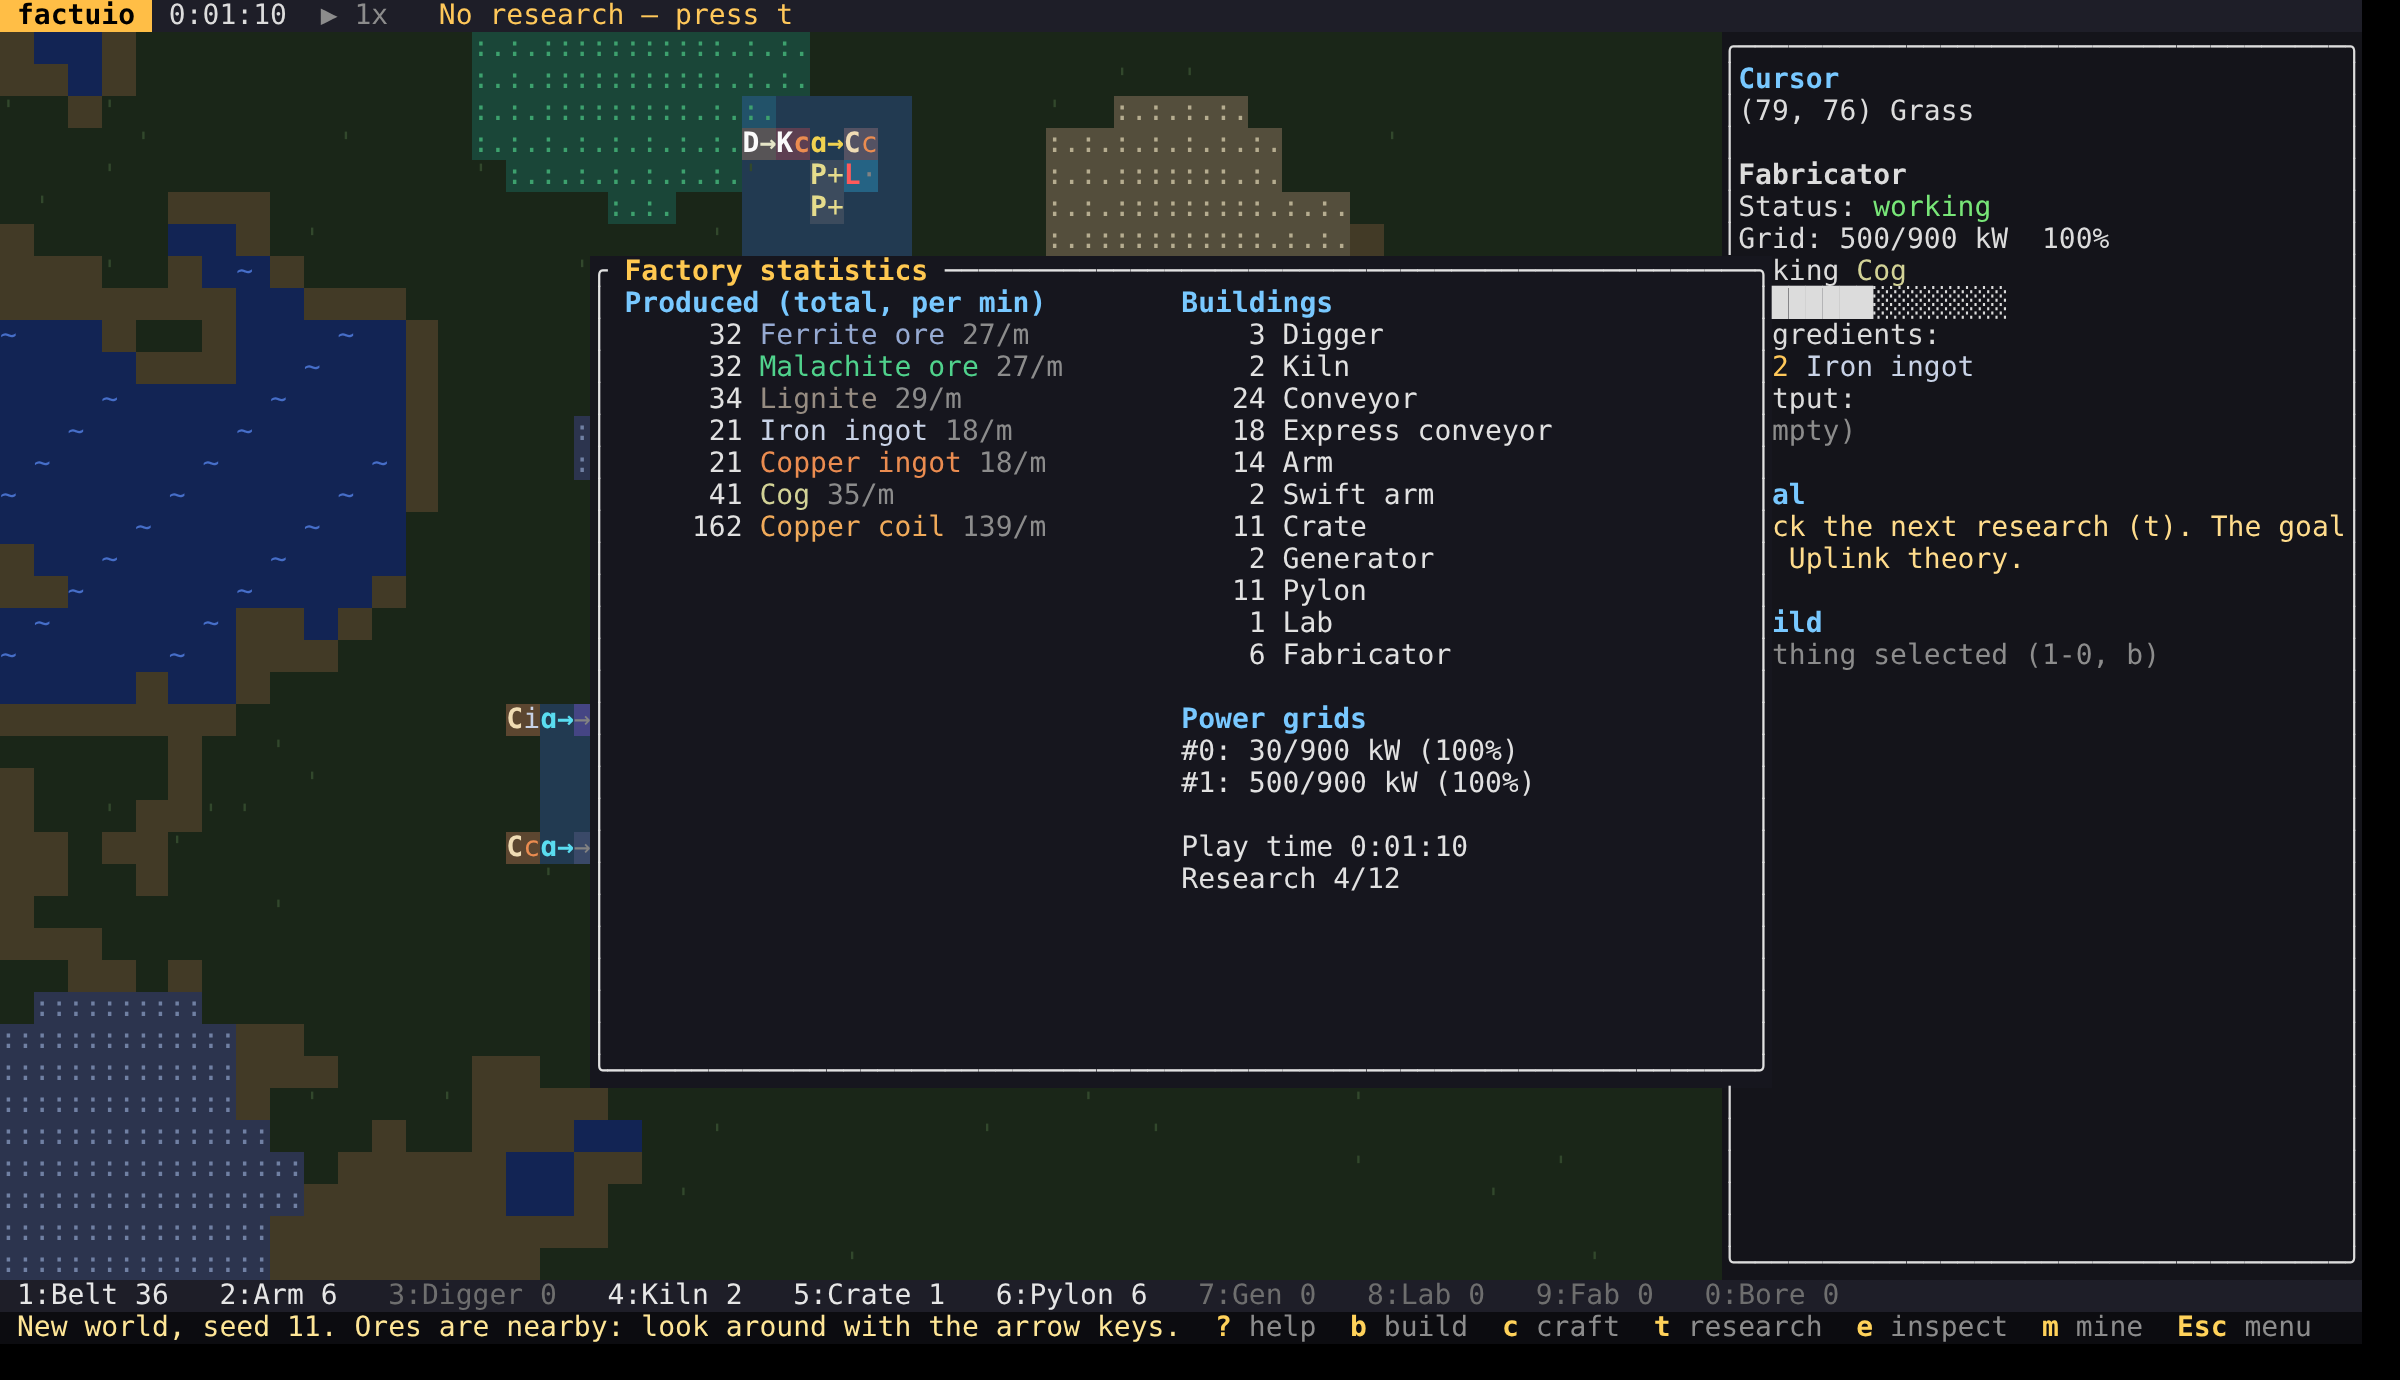
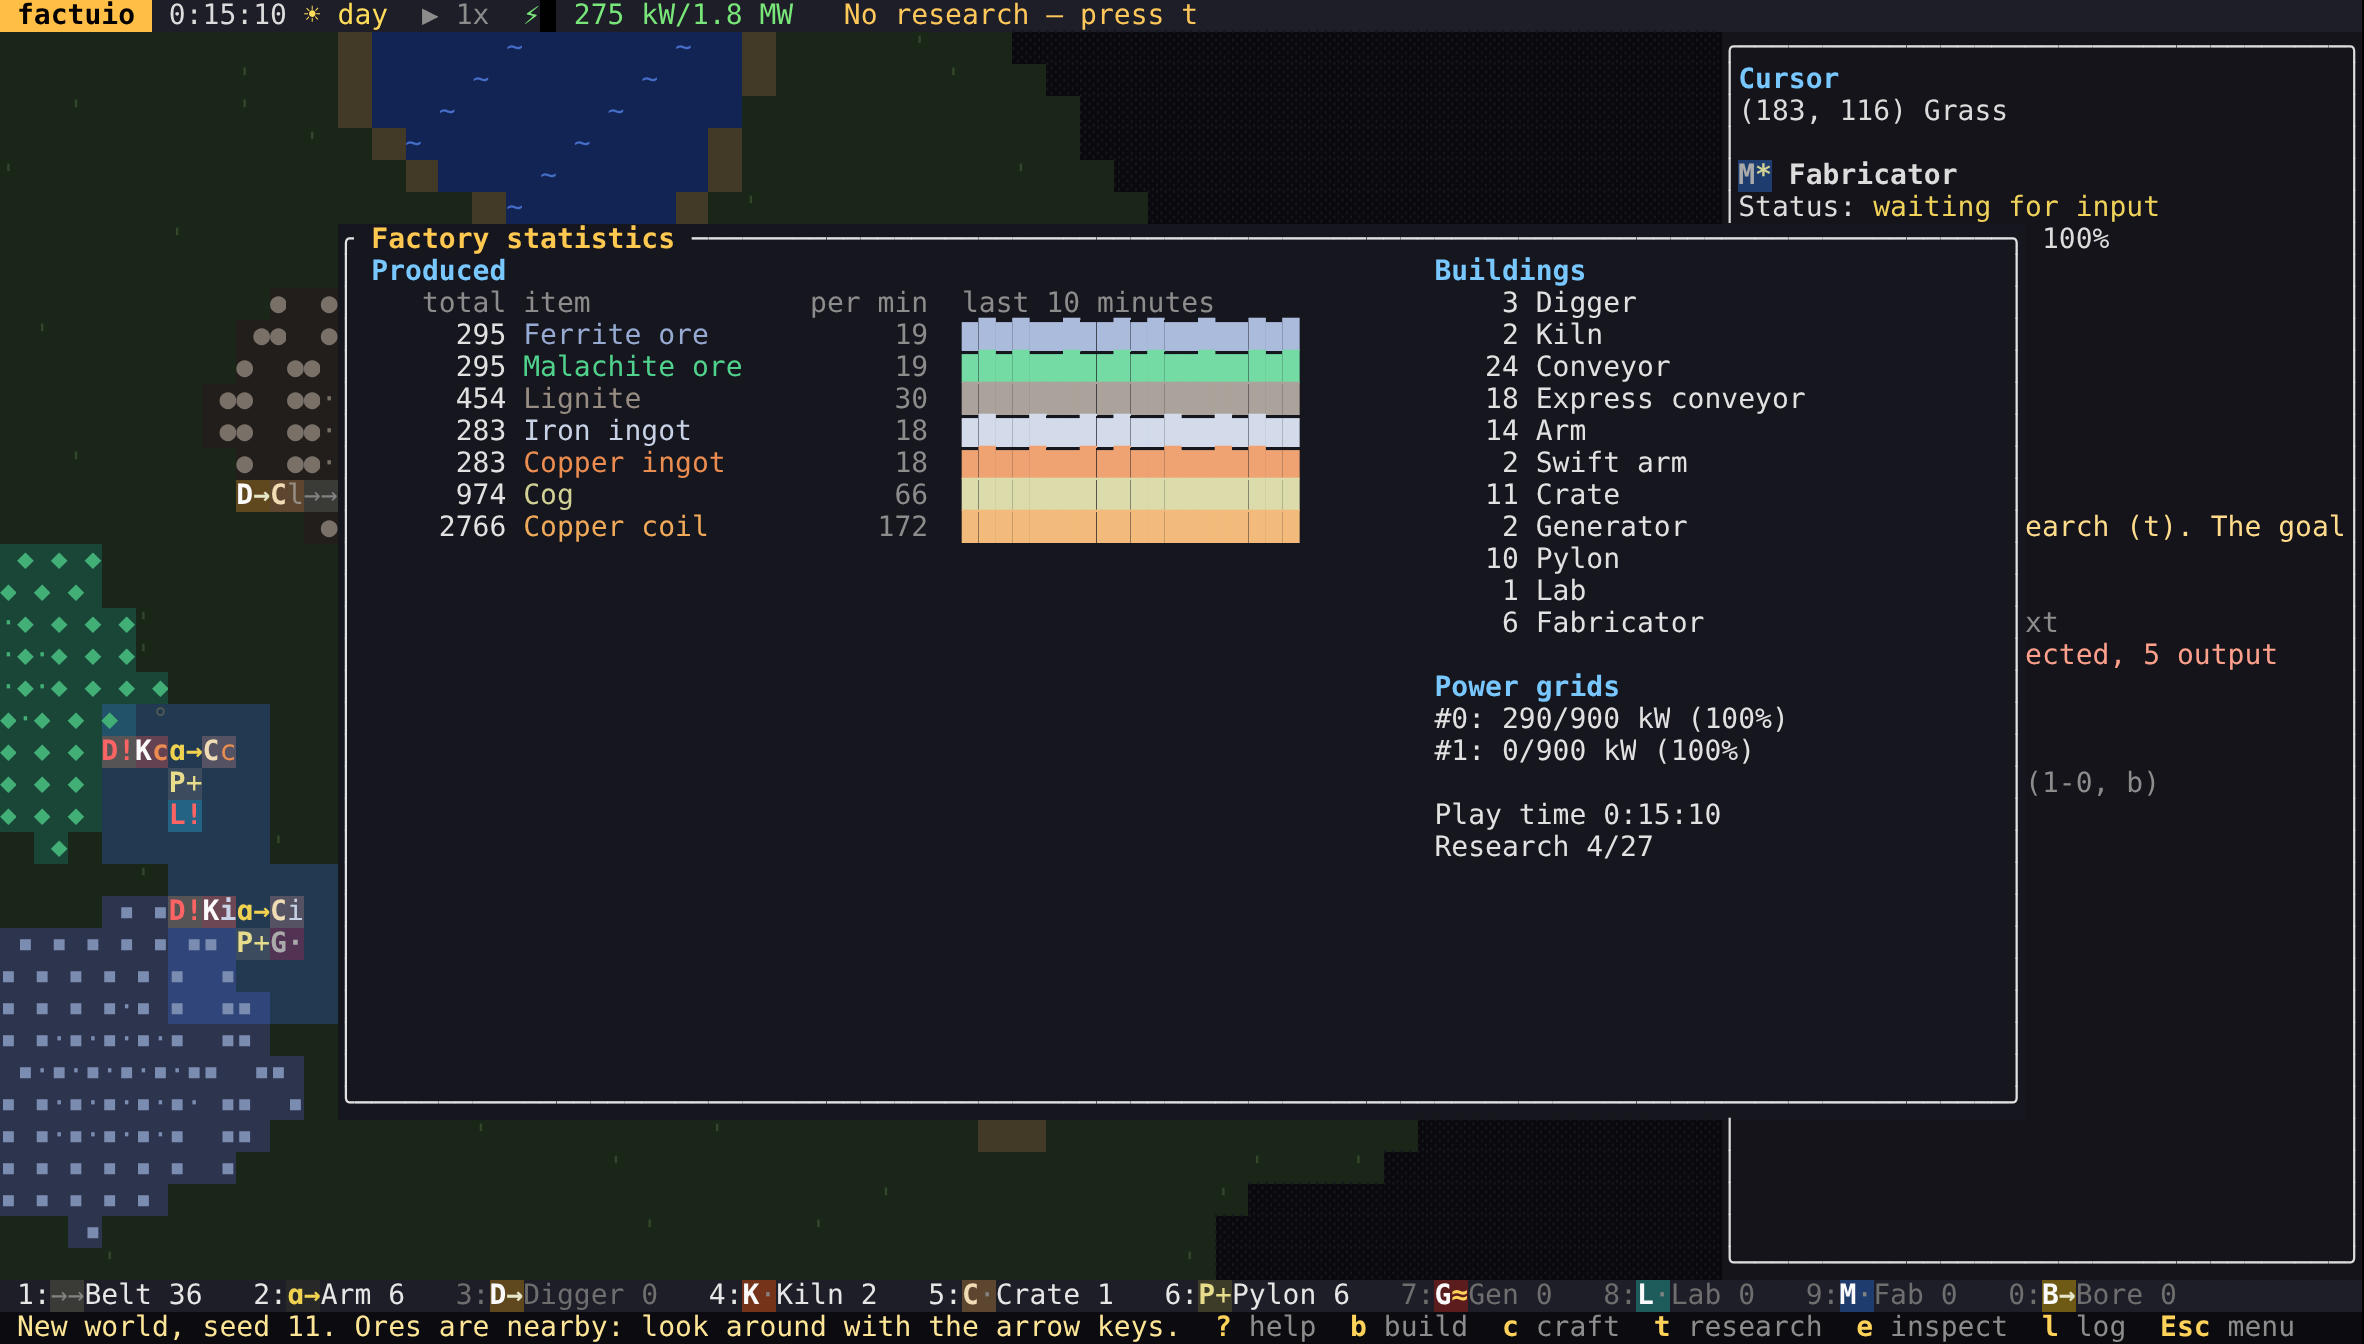
Refresh the README screenshots
Rendered from the current UI: the new ore shapes, building chips,
research tree, power readout and sparklines. The statistics shot now
runs the demo factory to midday on its third day (fuel topped up, crates
emptied and the ingot crates refilled) so every sparkline has ten
minutes of history.

Claude-Session: https://claude.ai/code/session_01WQhVu4WADybVvPsaDY2fyY

diff --git a/src/ui.rs b/src/ui.rs
@@ -3766,6 +3766,44 @@ mod tests {
                     t.draw(|f| draw(f, &b)).unwrap();
                 }
                 Some(m) => {
+                    if name == "stats" {
+                        // Run on to midday of the third day, as a player tending the factory
+                        // would: fuel topped up, crates emptied, the fabricator lines' ingot
+                        // crates refilled. Then every sparkline has ten minutes.
+                        let g = a.game.as_mut().unwrap();
+                        while g.world.tick < 15 * 60 * crate::world::TICKS_PER_SEC as u64 {
+                            let width = g.world.width as usize;
+                            for i in 0..g.world.entities.len() {
+                                let Some(kind) = g.world.entities[i].as_ref().map(|e| e.kind)
+                                else {
+                                    continue;
+                                };
+                                use crate::items::EntityKind as K;
+                                if kind.fuel_draw() > 0.0 || kind == K::Generator {
+                                    g.world.insert(i, Item::Lignite, 10, true);
+                                }
+                                if kind == K::Crate {
+                                    let had = |item| match &g.world.entities[i] {
+                                        Some(Entity {
+                                            state: State::Chest { inv, .. },
+                                            ..
+                                        }) => inv.count(item) > 0,
+                                        _ => false,
+                                    };
+                                    // The two crates that feed the lines are the ones holding
+                                    // ingots and nothing made from them.
+                                    let source = [Item::IronIngot, Item::CopperIngot]
+                                        .into_iter()
+                                        .find(|&it| had(it) && !had(Item::Cog) && !had(Item::Coil));
+                                    g.take_output((i % width) as i32, (i / width) as i32);
+                                    if let Some(it) = source {
+                                        g.world.insert(i, it, 400, true);
+                                    }
+                                }
+                            }
+                            crate::playtest::run(g, 30);
+                        }
+                    }
                     a.modal = m;
                     let g = a.game.as_mut().unwrap();
                     g.player.cursor = if name == "map" { kiln } else { (x, y) };

diff --git a/README.md b/README.md
@@ -52,7 +52,7 @@ advertises it through `COLORTERM`; otherwise they fall back to the 256-colour pa
 | ![Crafting and inventory](docs/screenshot-craft.png) | ![Research tree](docs/screenshot-research.png) |
 | Hand crafting, with missing intermediates made automatically | The research tree |
 | ![Inspecting a fabricator](docs/screenshot-entity.png) | ![Production statistics](docs/screenshot-stats.png) |
-| Inspecting a fabricator | Production statistics and power grids |
+| Inspecting a fabricator | Production statistics, with the last ten minutes of each item |
 
 ## Controls
 
